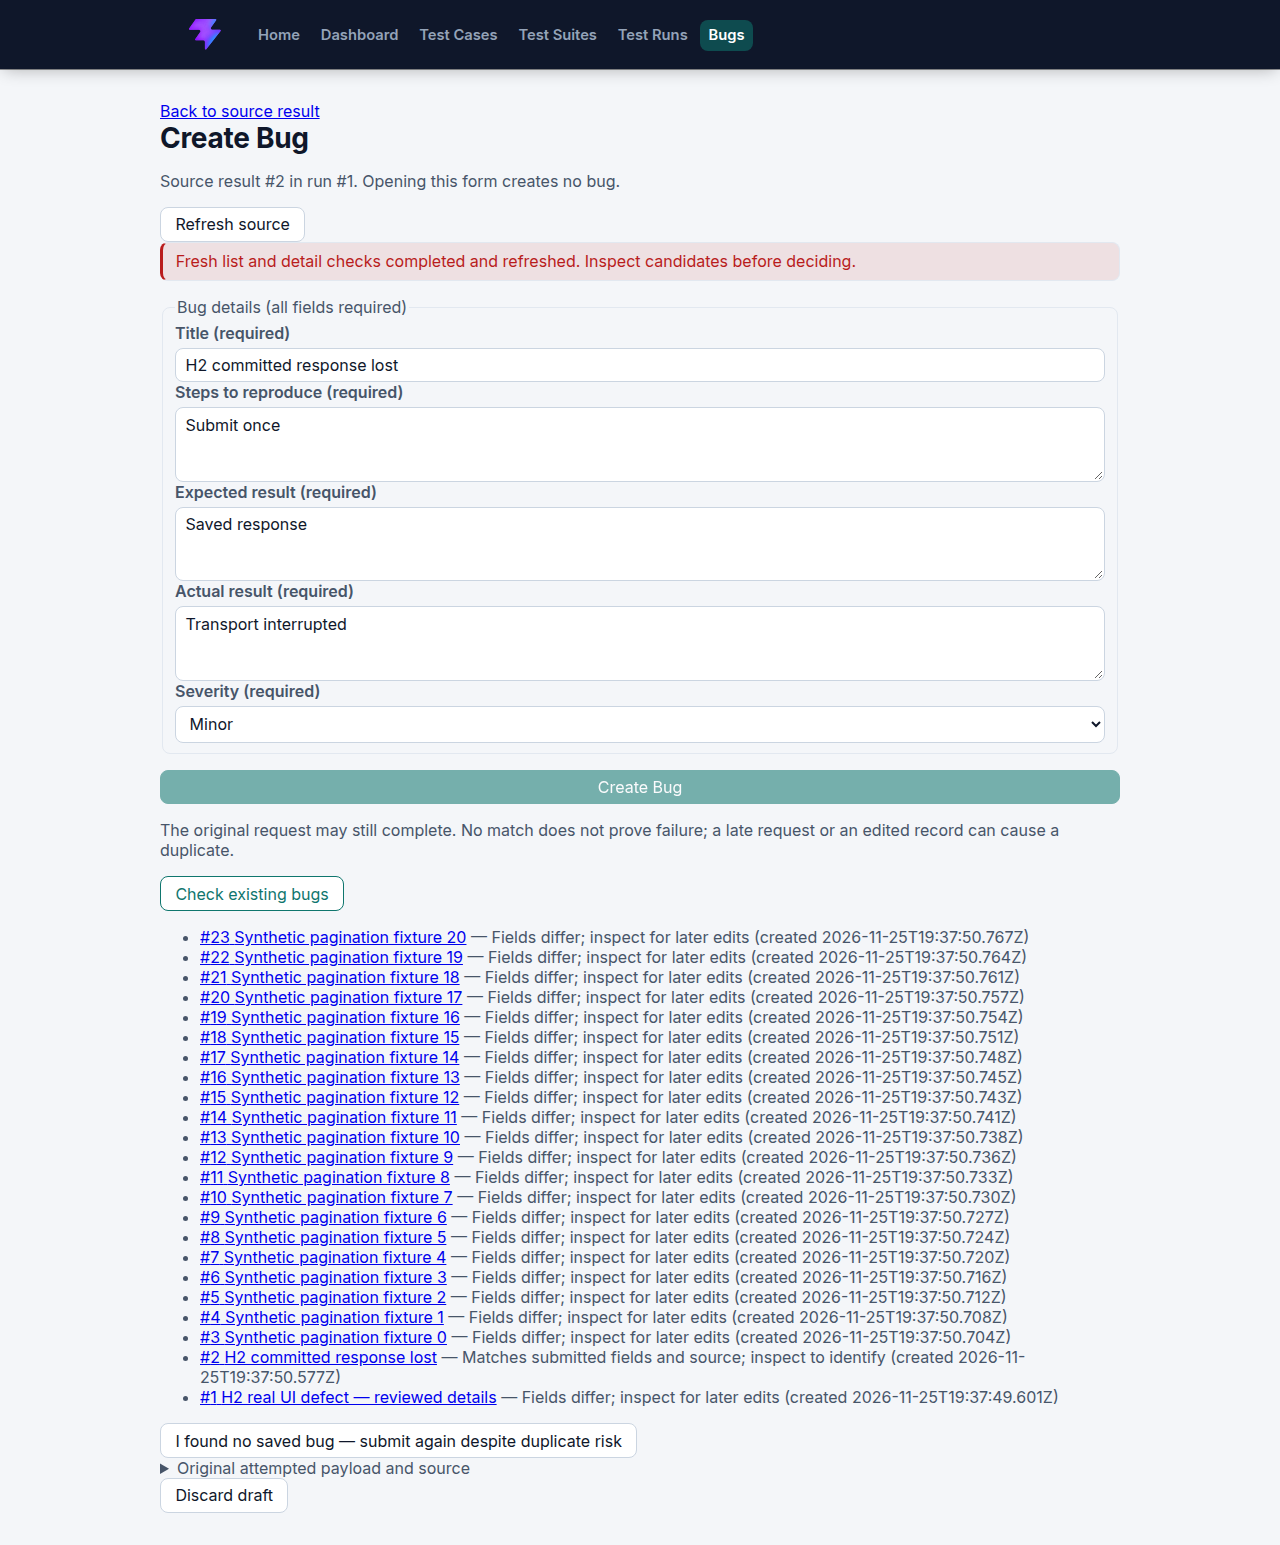
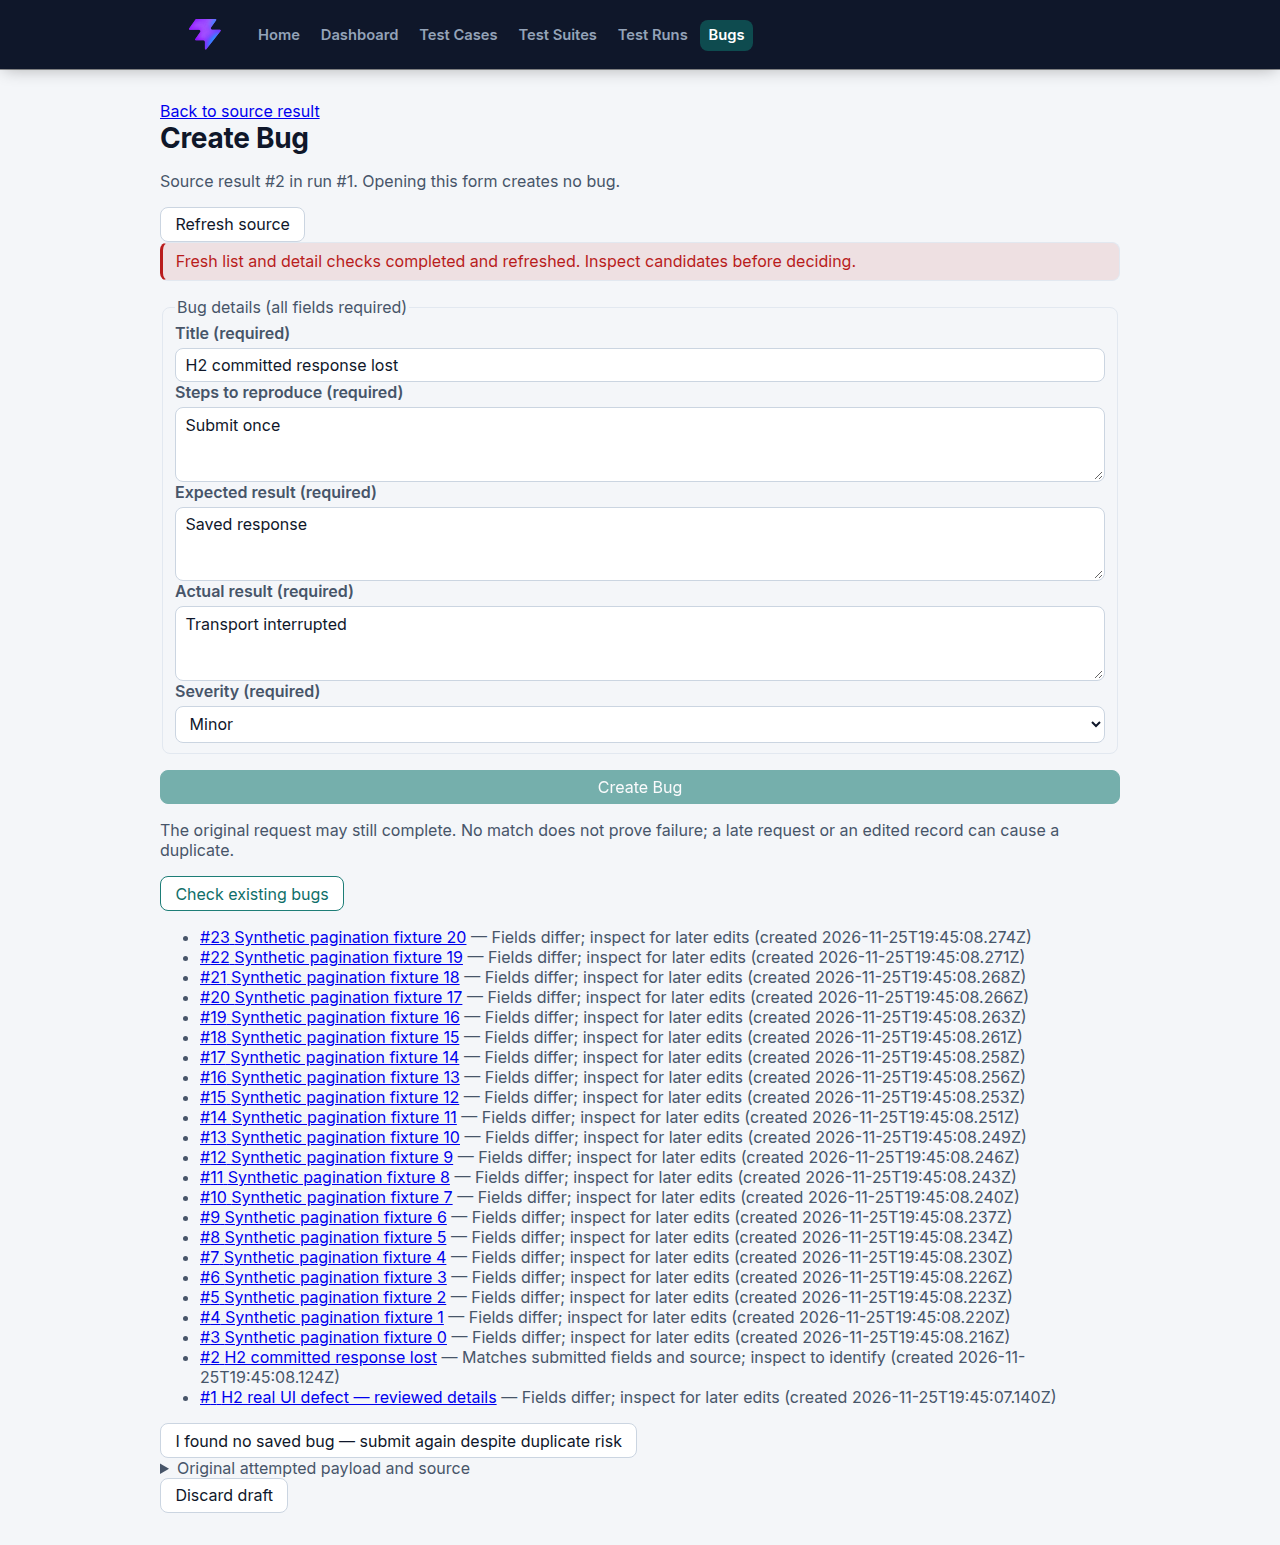
docs: save revised real UI recovery checks and BK review trace

Changed region(s): [[0.7188, 0.5903, 0.8125, 0.8699], [0.75, 0.901, 0.8125, 0.932], [0.1875, 0.8699, 0.25, 0.901]]

diff --git a/docs/evidence/h2-mk-client.md b/docs/evidence/h2-mk-client.md
@@ -1,6 +1,6 @@
 # MK H2 Bug client evidence
 
-Client implementation: `91b0de7d1489a5d44062ff2c043c2bd98395b05c` on
+Client implementation: `1d805370fbe320a557c3220ccca663b8f8c7a479` on
 `codex/mk-h2-bug-client`, based on updated main `120d261`. The original branch
 `codex/mk-h1-individual-evidence` was clean and remains preserved. Main was only
 fast-forwarded locally; it was neither pushed nor merged by this work.
@@ -19,7 +19,7 @@ in each verification command. [Exact environment](captures/mk-2026-11-25-h2/envi
 
 | Check | Actual result/output |
 | --- | --- |
-| `npm test` in client branch | Exit 0: **64 client + 60 inherited server tests**; [output](captures/mk-2026-11-25-h2/tests.txt). |
+| `npm test` in client branch | Exit 0: **65 client + 60 inherited server tests**; [output](captures/mk-2026-11-25-h2/tests.txt). |
 | `npm run lint` | Exit 0, no warnings; [output](captures/mk-2026-11-25-h2/lint.txt). |
 | `npm run build` | Exit 0; [output](captures/mk-2026-11-25-h2/build.txt). |
 | `npm run verify:sqlite` | Exit 0, Node v24.22.1, native SQLite 3.53.4 write/read passed. |
@@ -28,7 +28,7 @@ in each verification command. [Exact environment](captures/mk-2026-11-25-h2/envi
 | SQLite reopen after stopping server | 24 synthetic Bugs persisted, selected records matched, integrity `ok`, no FK violations; [output](captures/mk-2026-11-25-h2/sqlite-reopen.json). |
 | `git diff --check` | Exit 0. |
 
-The additional 24 client checks cover transport classification/envelopes, fresh
+The additional 25 client checks cover transport classification/envelopes, fresh
 paginated/detail reconciliation (including standalone reads), Unicode boundaries,
 source/case mismatches, multiple candidates, explicit creation, duplicate-submit
 guards, rejected/uncertain writes, failed reads, retained drafts, complete PUT,
@@ -65,18 +65,24 @@ The final browser run at the implementation SHA above:
    duplicate-risk action submitted again, and the real server saved that Bug.
    Browser-originated POST count was exactly four; 21 API fixture writes were
    separate. There were no browser page errors.
-7. Stopped the isolated server and reopened its database with a fresh connection.
+7. Exercised BK's uncertain PUT finding against the real backend: an update
+   committed before its response was aborted. A later local edit survived a failed
+   refresh and a successful fresh read, with Save still blocked. Explicit adoption
+   loaded the committed version with no PUT. A separate interrupted update tested
+   the deliberate overwrite choice: that choice sent no write; only the following
+   explicit Save persisted the retained draft. The browser recorded three PUT
+   attempts in these recovery checks, in addition to four earlier lifecycle PUTs.
+8. Stopped the isolated server and reopened its database with a fresh connection.
    All 24 Bugs and the selected source-linked records persisted.
 
-Only the final three selected UI captures are published:
+Only the final four selected UI captures are published:
 
 - [Saved details/status success](captures/mk-2026-11-25-h2/saved-success.png)
 - [Uncertain response after actual commit](captures/mk-2026-11-25-h2/uncertain-after-real-commit.png)
 - [Refreshed reconciliation with later-page candidate](captures/mk-2026-11-25-h2/reconciled-later-page.png)
+- [Uncertain PUT: fresh saved version versus retained draft, Save blocked](captures/mk-2026-11-25-h2/uncertain-update-compared.png)
 
-PR #18's opening body handed this capture scope to BK and asked BK to reuse
-the final states rather than duplicate screenshots after each edit. BK's requested
-review was confirmed through the GitHub API; BK has not yet responded or approved.
+[PR #18's capture handoff](https://github.com/RS77713/Software-Engineering2---Group-Project---Managment-Tool/pull/18#issuecomment-7172621509) asked BK to reuse final states rather than duplicate screenshots after each edit. BK reviewed the implementation and requested changes; no approval is claimed. The fourth capture addresses that specific review finding.
 These captures are author-side agent evidence, not BK's independent verification.
 
 The [browser runner](captures/mk-2026-11-25-h2/browser-check.mjs) is retained for
@@ -122,6 +128,8 @@ message entering the label's accessible text, and a real Chrome status-label
 lookup failure. The assertions and label associations were corrected; final
 results above were rerun after the fixes. Earlier failed-run captures remain
 under `/tmp` and are not presented as final evidence.
+
+BK's [initial review](https://github.com/RS77713/Software-Engineering2---Group-Project---Managment-Tool/pull/18#pullrequestreview-6063856650) and [follow-up](https://github.com/RS77713/Software-Engineering2---Group-Project---Managment-Tool/pull/18#pullrequestreview-6063871333) correctly identified that fresh reads alone re-enabled an uncertain PUT with a stale draft. The [inline finding](https://github.com/RS77713/Software-Engineering2---Group-Project---Managment-Tool/pull/18#discussion_r4699950615) is addressed by preserving the attempted update and blocking Save until an explicit choice: adopt the fresh saved version, or authorize keeping the draft before a separate explicit Save. Failed reads offer neither choice. Writes are also blocked while fresh reads are pending, preventing an older in-flight read from being used to recover a newer uncertain write. Component checks exercise both refresh outcomes and both choices; the final real browser run repeats the committed-response-loss case. BK re-review remains pending.
 
 **MK's personal human review/understanding statement remains pending.** The agent
 asked MK to inspect the PR and supply it; no human judgment or BK approval has
